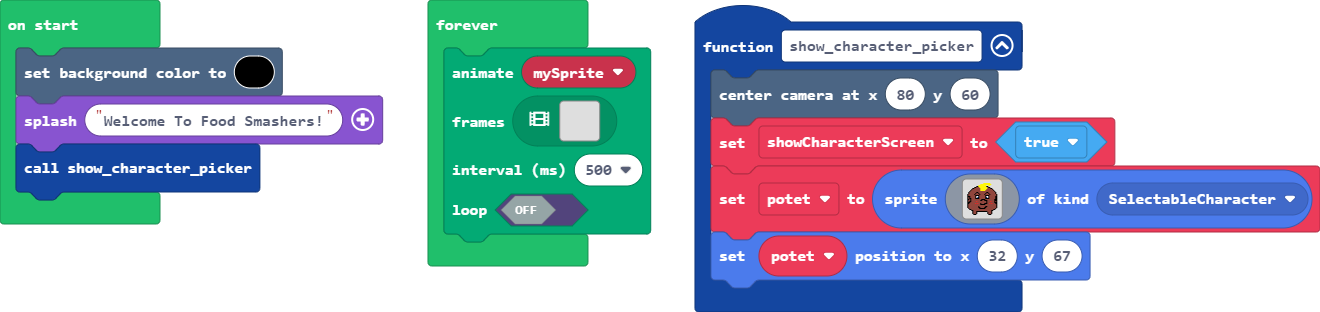
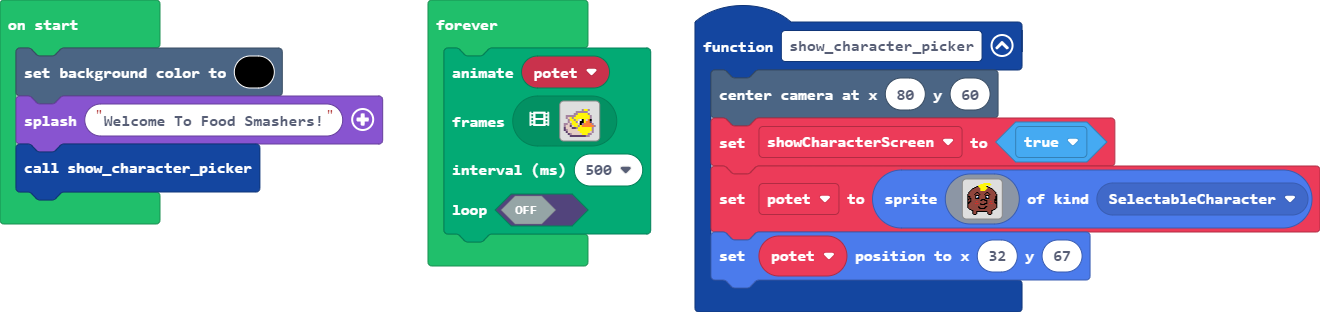
Update main.blocks, main.ts, images.g.jres, images.g.ts

diff --git a/main.ts b/main.ts
@@ -13,26 +13,25 @@ scene.setBackgroundColor(15)
 game.splash("Welcome To Food Smashers!")
 show_character_picker()
 forever(function () {
-    let mySprite: Sprite = null
     animation.runImageAnimation(
-    mySprite,
+    potet,
     [img`
         . . . . . . . . . . . . . . . . 
         . . . . . . . . . . . . . . . . 
-        . . . . . . . . . . . . . . . . 
-        . . . . . . . . . . . . . . . . 
-        . . . . . . . . . . . . . . . . 
-        . . . . . . . . . . . . . . . . 
-        . . . . . . . . . . . . . . . . 
-        . . . . . . . . . . . . . . . . 
-        . . . . . . . . . . . . . . . . 
-        . . . . . . . . . . . . . . . . 
-        . . . . . . . . . . . . . . . . 
-        . . . . . . . . . . . . . . . . 
-        . . . . . . . . . . . . . . . . 
-        . . . . . . . . . . . . . . . . 
-        . . . . . . . . . . . . . . . . 
-        . . . . . . . . . . . . . . . . 
+        . . . . . . . . . b 5 5 b . . . 
+        . . . . . . b b b b b b . . . . 
+        . . . . . b b 5 5 5 5 5 b . . . 
+        . b b b b b 5 5 5 5 5 5 5 b . . 
+        . b d 5 b 5 5 5 5 5 5 5 5 b . . 
+        . . b 5 5 b 5 d 1 f 5 d 4 f . . 
+        . . b d 5 5 b 1 f f 5 4 4 c . . 
+        b b d b 5 5 5 d f b 4 4 4 4 b . 
+        b d d c d 5 5 b 5 4 4 4 4 4 4 b 
+        c d d d c c b 5 5 5 5 5 5 5 b . 
+        c b d d d d d 5 5 5 5 5 5 5 b . 
+        . c d d d d d d 5 5 5 5 5 d b . 
+        . . c b d d d d d 5 5 5 b b . . 
+        . . . c c c c c c c c b b . . . 
         `],
     500,
     false

diff --git a/images.g.ts b/images.g.ts
@@ -210,6 +210,25 @@ ffeeeff55555555555ffeeefff......
 ......fffffffffffff.............
 ................................
 `;
+            case "image5":
+            case "myImage":return img`
+. . . . . . . . . . . . . . . . 
+. . . . . . . . . . . . . . . . 
+. . . . . . . . . . . . . . . . 
+. . . . . . . . . . . . . . . . 
+. . . . . . . . . . . . . . . . 
+. . . . . . . . . . . . . . . . 
+. . . . . . . . . . . . . . . . 
+. . . . . . . . . . . . . . . . 
+. . . . . . . . . . . . . . . . 
+. . . . . . . . . . . . . . . . 
+. . . . . . . . . . . . . . . . 
+. . . . . . . . . . . . . . . . 
+. . . . . . . . . . . . . . . . 
+. . . . . . . . . . . . . . . . 
+. . . . . . . . . . . . . . . . 
+. . . . . . . . . . . . . . . . 
+`;
         }
         return null;
     })
